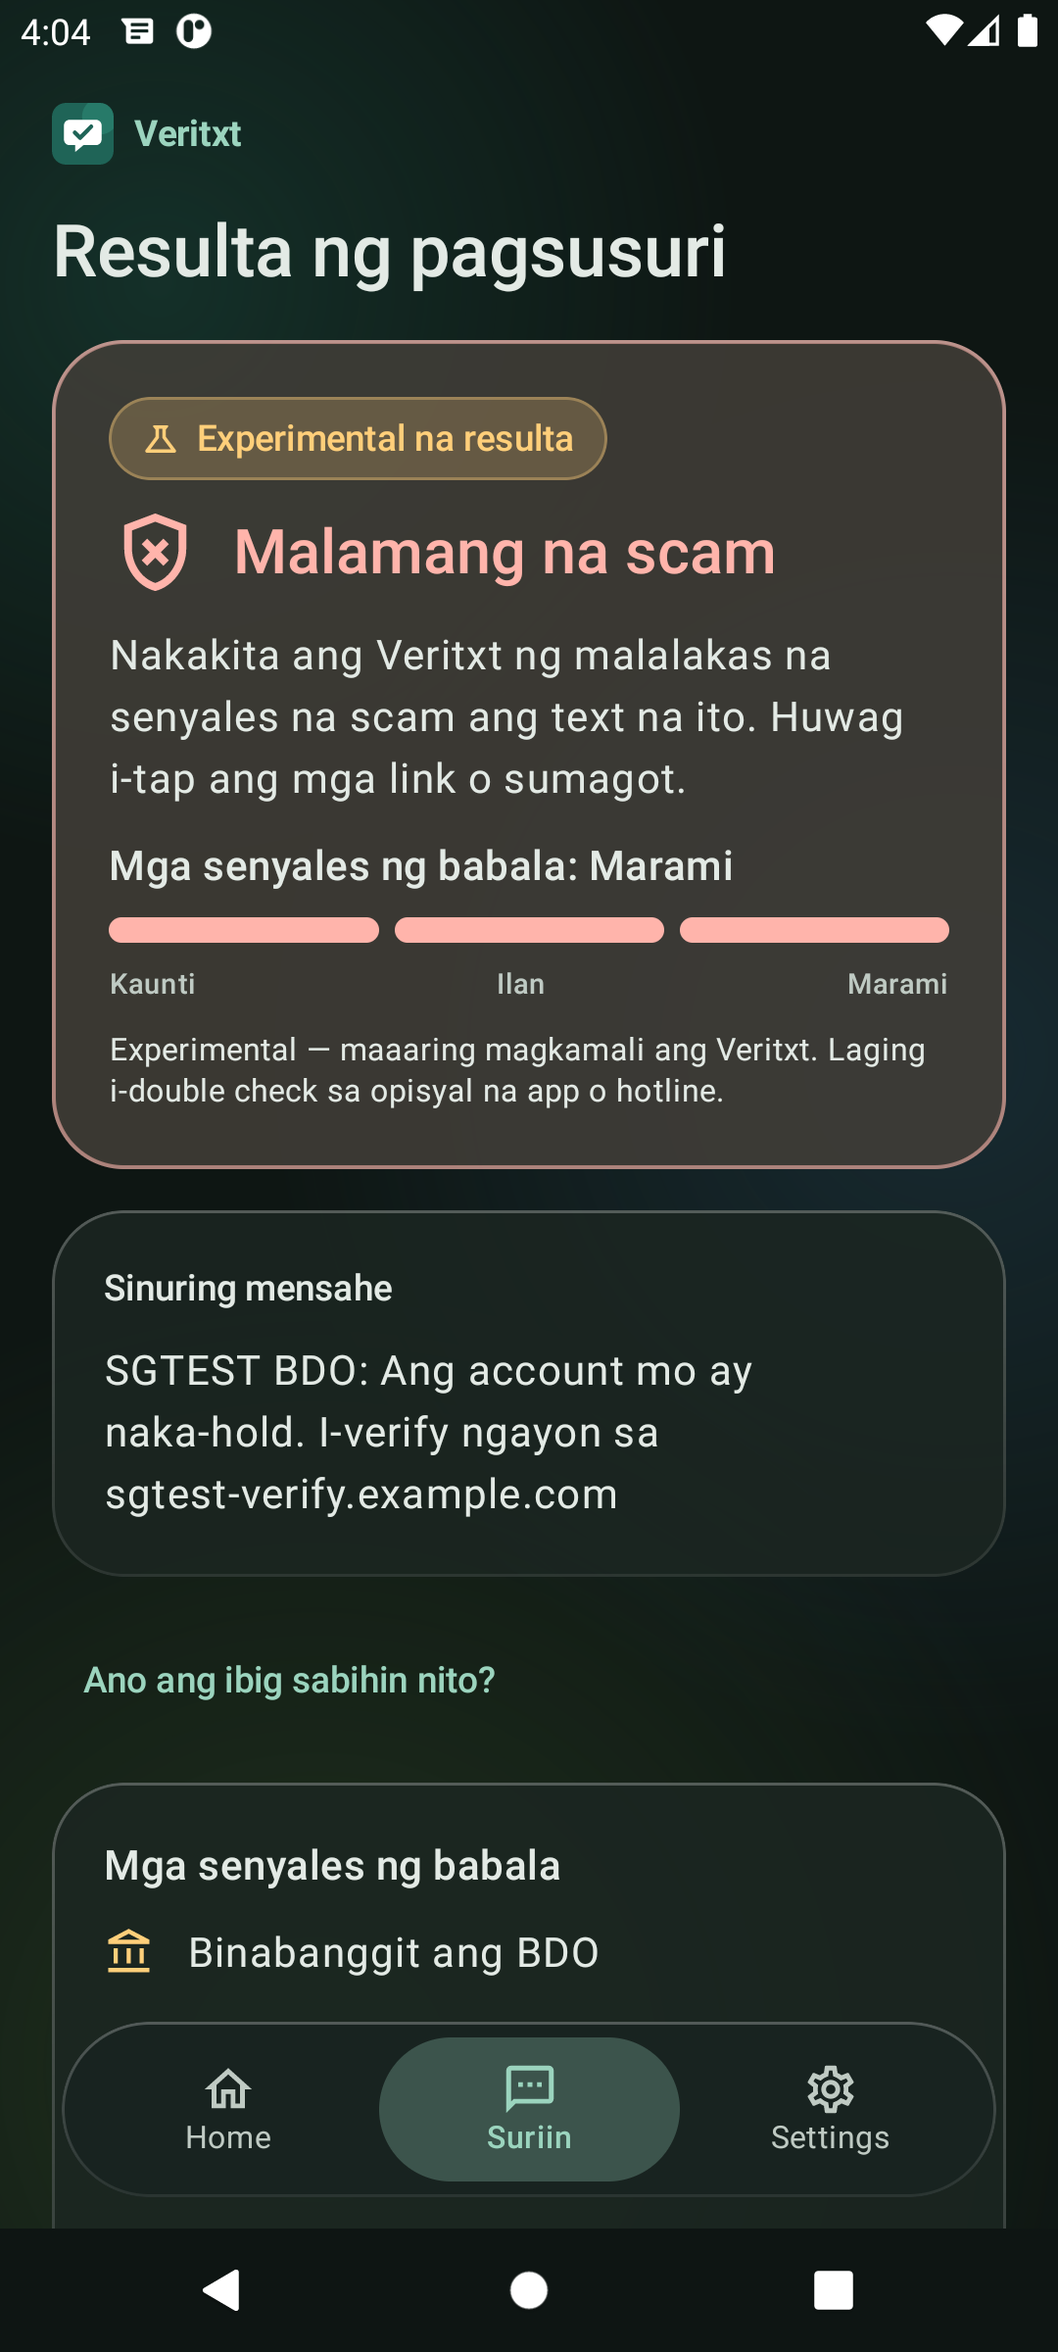
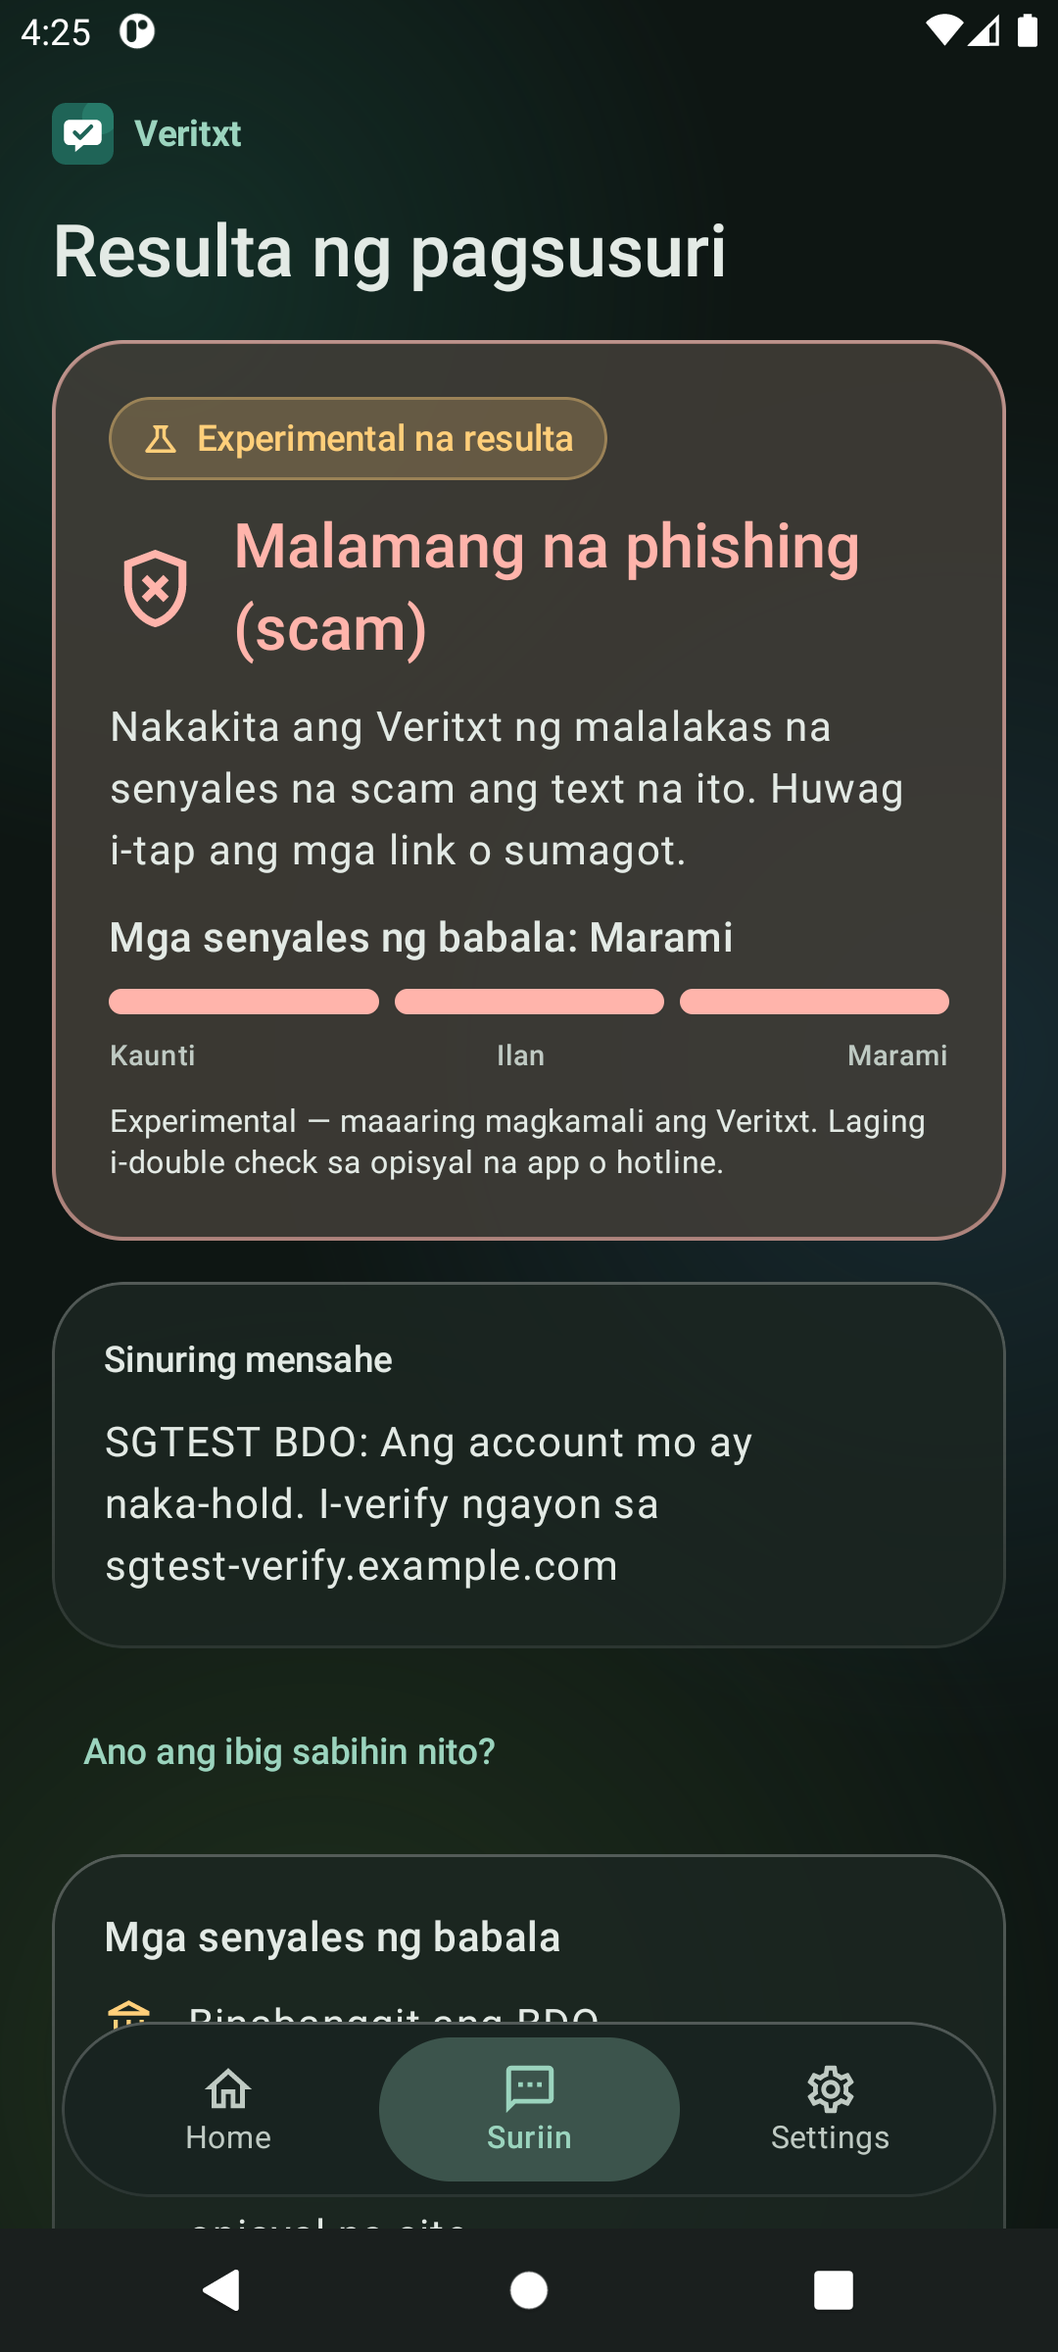
Say "phishing (scam)" consistently and add a Light/Dark theme choice
Wording: "Likely phishing (scam)", "No phishing (scam) detected", and
"Possible phishing (scam) text" in English and Filipino, so the thesis term
and the everyday word appear together and both languages match.

Theme: Settings -> Theme: System default / Light / Dark, applied instantly
in Compose (no activity restart), with status and navigation bar icons
matching. Stored with the display settings and cleared by "Clear local data".

Tests updated for the wording; new ThemeSettingTest. 52/52 instrumented
tests pass on Android 11.

diff --git a/android/app/src/main/java/ph/smishguard/MainActivity.kt b/android/app/src/main/java/ph/smishguard/MainActivity.kt
@@ -14,6 +14,7 @@ import android.view.WindowManager
 import androidx.activity.compose.BackHandler
 import androidx.activity.compose.rememberLauncherForActivityResult
 import androidx.activity.compose.setContent
+import androidx.activity.SystemBarStyle
 import androidx.activity.enableEdgeToEdge
 import androidx.activity.result.contract.ActivityResultContracts
 import androidx.activity.viewModels
@@ -79,6 +80,7 @@ import androidx.lifecycle.LifecycleEventObserver
 import androidx.lifecycle.compose.LocalLifecycleOwner
 import androidx.lifecycle.compose.collectAsStateWithLifecycle
 import kotlinx.coroutines.launch
+import ph.smishguard.data.AppTheme
 import ph.smishguard.data.Preferences
 import ph.smishguard.model.Detection
 import ph.smishguard.model.DecisionPolicy
@@ -143,8 +145,7 @@ enum class AppLanguage(val tag: String) { SYSTEM(""), ENGLISH("en"), FILIPINO("f
     }
 }
 
-@Composable private fun SmishGuardTheme(solid: Boolean, content: @Composable () -> Unit) {
-    val dark = isSystemInDarkTheme()
+@Composable private fun SmishGuardTheme(solid: Boolean, dark: Boolean, content: @Composable () -> Unit) {
     val colors = if (dark) darkColorScheme(primary = Color(0xFF9BD4BE), onPrimary = Color(0xFF00382D), secondary = Color(0xFFBACBBF),
             background = Color(0xFF0E1613), surface = Color(0xFF0E1613), onSurface = Color(0xFFE3EAE5),
             onSurfaceVariant = Color(0xFFBFCAC3), surfaceContainer = Color(0xFF202B26), secondaryContainer = Color(0xFF344B40))
@@ -182,7 +183,19 @@ private fun SmishGuardUi(app: SmishGuardApp, vm: CheckViewModel) {
     val keyboard = LocalSoftwareKeyboardController.current
     val focus = LocalFocusManager.current
     LaunchedEffect(state.screen, state.busy) { if (state.screen != Screen.CHECK || state.busy) { focus.clearFocus(); keyboard?.hide() } }
-    SmishGuardTheme(solid = preferences?.reduceTransparency == true) {
+    // Light / Dark / System is applied in Compose, so switching is instant and keeps the user on the same screen.
+    val systemDark = isSystemInDarkTheme()
+    val dark = when (preferences?.theme ?: AppTheme.SYSTEM) { AppTheme.SYSTEM -> systemDark; AppTheme.LIGHT -> false; AppTheme.DARK -> true }
+    LaunchedEffect(dark) {
+        // Status and navigation bar icons must match the chosen theme, not the phone's.
+        val transparent = android.graphics.Color.TRANSPARENT
+        val lightScrim = android.graphics.Color.argb(0xe6, 0xFF, 0xFF, 0xFF)
+        val darkScrim = android.graphics.Color.argb(0x80, 0x1b, 0x1b, 0x1b)
+        (activity as? androidx.activity.ComponentActivity)?.enableEdgeToEdge(
+            statusBarStyle = if (dark) SystemBarStyle.dark(transparent) else SystemBarStyle.light(transparent, transparent),
+            navigationBarStyle = if (dark) SystemBarStyle.dark(darkScrim) else SystemBarStyle.light(lightScrim, darkScrim))
+    }
+    SmishGuardTheme(solid = preferences?.reduceTransparency == true, dark = dark) {
         val haze = remember { HazeState() }
         val showNav = preferences?.privacyAccepted == true && preferences?.onboarded == true
         var navHeight by remember { mutableIntStateOf(0) }
@@ -281,6 +294,16 @@ private fun SmishGuardUi(app: SmishGuardApp, vm: CheckViewModel) {
             FilterChip(current == language, { current = language; AppLanguage.set(language) }, { Text(stringResource(label)) },
                 shape = RoundedCornerShape(50), modifier = Modifier.heightIn(min = 48.dp))
         }
+    }
+}
+
+@Composable private fun ThemePicker(current: AppTheme, choose: (AppTheme) -> Unit) {
+    FlowRow(horizontalArrangement = Arrangement.spacedBy(8.dp), verticalArrangement = Arrangement.spacedBy(8.dp)) {
+        listOf(AppTheme.SYSTEM to R.string.language_system, AppTheme.LIGHT to R.string.theme_light, AppTheme.DARK to R.string.theme_dark)
+            .forEach { (theme, label) ->
+                FilterChip(current == theme, { choose(theme) }, { Text(stringResource(label)) },
+                    shape = RoundedCornerShape(50), modifier = Modifier.heightIn(min = 48.dp))
+            }
     }
 }
 
@@ -700,6 +723,9 @@ private fun notificationSettings(context: Context) = Intent(Settings.ACTION_APP_
     GlassSurface(Modifier.fillMaxWidth(), padding = 12.dp) {
         SettingsRow(Icons.Outlined.Translate, stringResource(R.string.language_title))
         Box(Modifier.padding(start = 40.dp)) { LanguagePicker() }
+        HorizontalDivider(color = edge)
+        SettingsRow(Icons.Outlined.DarkMode, stringResource(R.string.theme_title))
+        Box(Modifier.padding(start = 40.dp)) { ThemePicker(preferences.theme) { scope.launch { app.preferences.theme(it) } } }
         HorizontalDivider(color = edge)
         val reduceCd = stringResource(R.string.reduce_title)
         SettingsRow(Icons.Outlined.Contrast, stringResource(R.string.reduce_title), stringResource(R.string.reduce_body)) {

diff --git a/android/app/src/main/java/ph/smishguard/data/PreferencesRepository.kt b/android/app/src/main/java/ph/smishguard/data/PreferencesRepository.kt
@@ -24,8 +24,10 @@ private val dropCity = object : androidx.datastore.core.DataMigration<androidx.d
     override suspend fun cleanUp() {}
 }
 private val Context.preferences by preferencesDataStore("preferences", produceMigrations = { listOf(dropCity) })
+/** Light, dark, or follow the phone's setting. */
+enum class AppTheme { SYSTEM, LIGHT, DARK }
 data class Preferences(val onboarded: Boolean = false, val scanning: Boolean = false, val reduceTransparency: Boolean = false,
-                       val privacyVersion: Int = 0, val privacyAcceptedOn: String? = null) {
+                       val privacyVersion: Int = 0, val privacyAcceptedOn: String? = null, val theme: AppTheme = AppTheme.SYSTEM) {
     val privacyAccepted get() = privacyVersion >= PRIVACY_NOTICE_VERSION
 }
 class PreferencesRepository(context: Context) {
@@ -33,15 +35,18 @@ class PreferencesRepository(context: Context) {
     private val consent = booleanPreferencesKey("onboarded")
     private val scanning = booleanPreferencesKey("incoming_sms_consent")
     private val solid = booleanPreferencesKey("reduce_transparency")
+    private val themeKey = stringPreferencesKey("theme")
     // Only the notice version and the date (no time, no identity) are kept as proof of consent.
     private val privacyVersion = intPreferencesKey("privacy_notice_version")
     private val privacyDate = stringPreferencesKey("privacy_notice_accepted_on")
     val flow = store.data.catch { if (it is IOException) emit(emptyPreferences()) else throw it }.map {
-        Preferences(it[consent] ?: false, it[scanning] ?: false, it[solid] ?: false, it[privacyVersion] ?: 0, it[privacyDate])
+        Preferences(it[consent] ?: false, it[scanning] ?: false, it[solid] ?: false, it[privacyVersion] ?: 0, it[privacyDate],
+            runCatching { AppTheme.valueOf(it[themeKey] ?: AppTheme.SYSTEM.name) }.getOrDefault(AppTheme.SYSTEM))
     }
     suspend fun onboard() { store.edit { it[consent] = true } }
     suspend fun scanning(enabled: Boolean) { store.edit { it[scanning] = enabled } }
     suspend fun reduceTransparency(enabled: Boolean) { store.edit { it[solid] = enabled } }
+    suspend fun theme(value: AppTheme) { store.edit { it[themeKey] = value.name } }
     suspend fun acceptPrivacy() { store.edit { it[privacyVersion] = PRIVACY_NOTICE_VERSION; it[privacyDate] = LocalDate.now().toString() } }
     suspend fun clear() { store.edit { it.clear() } }
 }

diff --git a/android/app/src/androidTest/java/ph/smishguard/ThemeSettingTest.kt b/android/app/src/androidTest/java/ph/smishguard/ThemeSettingTest.kt
@@ -1,0 +1,34 @@
+package ph.smishguard
+
+import androidx.compose.ui.test.*
+import androidx.compose.ui.test.junit4.createAndroidComposeRule
+import kotlinx.coroutines.flow.first
+import kotlinx.coroutines.runBlocking
+import org.junit.After
+import org.junit.Assert.assertEquals
+import org.junit.Rule
+import org.junit.Test
+import ph.smishguard.data.AppTheme
+
+/** Light / Dark / System can be chosen in Settings, apply instantly, and keep the user on Settings. */
+class ThemeSettingTest {
+    @get:Rule val compose = createAndroidComposeRule<MainActivity>()
+    private val app get() = compose.activity.application as SmishGuardApp
+
+    @After fun reset() = runBlocking { app.preferences.theme(AppTheme.SYSTEM) }
+
+    @Test fun themeChoiceIsSavedAndStaysOnSettings() {
+        runBlocking { app.preferences.acceptPrivacy(); app.preferences.onboard(); app.preferences.theme(AppTheme.SYSTEM) }
+        compose.waitUntil(10000) { compose.onAllNodesWithText("Settings").fetchSemanticsNodes().isNotEmpty() }
+        compose.onNodeWithText("Settings").performClick()
+        for ((label, expected) in listOf("Dark" to AppTheme.DARK, "Light" to AppTheme.LIGHT, "System default" to AppTheme.SYSTEM)) {
+            // "System default" also labels a language chip; the Theme row comes after Language, so take the last match.
+            val chip = { compose.onAllNodesWithText(label).let { it[it.fetchSemanticsNodes().size - 1] } }
+            // Press the chip itself; a coordinate tap after scrolling can land on the floating nav bar.
+            chip().performScrollTo().performSemanticsAction(androidx.compose.ui.semantics.SemanticsActions.OnClick) { it() }
+            compose.waitUntil(5000) { runBlocking { app.preferences.flow.first().theme } == expected }
+            compose.onNodeWithText("Privacy & settings").assertExists()
+            chip().assertIsSelected()
+        }
+    }
+}

diff --git a/android/app/src/androidTest/java/ph/smishguard/CompactResultTest.kt b/android/app/src/androidTest/java/ph/smishguard/CompactResultTest.kt
@@ -57,7 +57,7 @@ class CompactResultTest {
             compose.onNodeWithText("What does this mean?").performScrollTo().assertHeightIsAtLeast(48.dp).performClick()
             compose.onNodeWithText("About this result").assertExists()
             compose.onNodeWithText(if (suspicious) "Model score: 0.92" else "Model score: 0.12", substring = true).assertExists()
-            compose.onNodeWithText("Texts scoring above 0.50 are shown as Likely phishing.").assertExists()
+            compose.onNodeWithText("Texts scoring above 0.50 are shown as Likely phishing (scam).").assertExists()
             compose.onNodeWithText(policyNote).performScrollTo().assertExists()
             compose.onNodeWithText("Close").performClick()
         }
@@ -96,7 +96,7 @@ class CompactResultTest {
             compose.onRoot(useUnmergedTree = true).printToString())
         compose.onNode(SemanticsMatcher.expectValue(SemanticsProperties.LiveRegion, LiveRegionMode.Polite)).assertExists()
         compose.onNodeWithText("What does this mean?").performScrollTo().performClick()
-        compose.onNodeWithText("Texts scoring 0.89 or more are shown as Likely phishing.").performScrollTo().assertExists()
+        compose.onNodeWithText("Texts scoring 0.89 or more are shown as Likely phishing (scam).").performScrollTo().assertExists()
         compose.onNodeWithText(window.explanation()).performScrollTo().assertExists()
         compose.onNodeWithText("Close").performClick()
         compose.onNodeWithText("Check another message").performScrollTo().performClick()

diff --git a/android/app/src/androidTest/java/ph/smishguard/PrivacyAndCheckPromptTest.kt b/android/app/src/androidTest/java/ph/smishguard/PrivacyAndCheckPromptTest.kt
@@ -67,12 +67,12 @@ class PrivacyAndCheckPromptTest {
         val id = ph.smishguard.sms.WarningNotifications.warn(app, marker)!!
         val warning = posted(id)
         assertEquals(ph.smishguard.sms.WarningNotifications.CHANNEL, warning.channelId)
-        assertEquals("Possible scam text", warning.extras.getCharSequence(Notification.EXTRA_TITLE)?.toString())
+        assertEquals("Possible phishing (scam) text", warning.extras.getCharSequence(Notification.EXTRA_TITLE)?.toString())
         val shown = listOf(Notification.EXTRA_TITLE, Notification.EXTRA_TEXT).joinToString(" ") { warning.extras.getCharSequence(it)?.toString().orEmpty() }
         assertFalse("Warning must not contain the message", shown.contains("SGTEST") || shown.contains("example.com"))
         assertEquals(Notification.VISIBILITY_SECRET, warning.visibility)
         warning.contentIntent.send()
-        compose.waitUntil(10000) { compose.onAllNodesWithText("Likely phishing").fetchSemanticsNodes().isNotEmpty() }
+        compose.waitUntil(10000) { compose.onAllNodesWithText("Likely phishing (scam)").fetchSemanticsNodes().isNotEmpty() }
         compose.onNodeWithText("Experimental result").assertExists()
         compose.onNodeWithText(marker).assertExists()
     }

diff --git a/android/app/src/androidTest/java/ph/smishguard/IncomingPromptModemTest.kt b/android/app/src/androidTest/java/ph/smishguard/IncomingPromptModemTest.kt
@@ -47,10 +47,10 @@ class IncomingPromptModemTest {
                 if (posted == null) Thread.sleep(500)
             }
             assertNotNull("No automatic warning within 60 s of the SMS", posted)
-            assertEquals("Possible scam text", posted!!.extras.getCharSequence(Notification.EXTRA_TITLE)?.toString())
+            assertEquals("Possible phishing (scam) text", posted!!.extras.getCharSequence(Notification.EXTRA_TITLE)?.toString())
             InstrumentationRegistry.getArguments().getString("pauseMs")?.toLongOrNull()?.let(Thread::sleep)
             posted.contentIntent.send()
-            compose.waitUntil(10000) { compose.onAllNodesWithText("Likely phishing").fetchSemanticsNodes().isNotEmpty() }
+            compose.waitUntil(10000) { compose.onAllNodesWithText("Likely phishing (scam)").fetchSemanticsNodes().isNotEmpty() }
             assertTrue(manager.activeNotifications.none { it.notification.channelId == CheckPrompt.CHANNEL })
             if (InstrumentationRegistry.getArguments().getString("shot") == "true") captureResult(app)
         } finally {

diff --git a/android/app/src/androidTest/java/ph/smishguard/RedesignReviewTest.kt b/android/app/src/androidTest/java/ph/smishguard/RedesignReviewTest.kt
@@ -55,6 +55,13 @@ class RedesignReviewTest {
             capture("07-result-caution")
             compose.onNodeWithText("Settings").performClick()
             capture("08-settings")
+            // Theme choice: pick Dark while the phone may be in light mode, then go back to System default.
+            val themeChip = { label: String -> compose.onAllNodesWithText(label).let { it[it.fetchSemanticsNodes().size - 1] } }
+            themeChip("Dark").performScrollTo().performSemanticsAction(androidx.compose.ui.semantics.SemanticsActions.OnClick) { it() }
+            Thread.sleep(800)
+            capture("08b-theme-dark")
+            themeChip("System default").performScrollTo().performSemanticsAction(androidx.compose.ui.semantics.SemanticsActions.OnClick) { it() }
+            compose.onNodeWithText("Privacy & settings").performScrollTo()
             compose.onNodeWithText("Why didn't I get a notification?").performScrollTo().performClick()
             capture("09-help")
             // Filipino

diff --git a/android/app/src/androidTest/java/ph/smishguard/NotificationBehaviorTest.kt b/android/app/src/androidTest/java/ph/smishguard/NotificationBehaviorTest.kt
@@ -25,7 +25,7 @@ class NotificationBehaviorTest {
         awaitNotificationState { manager.activeNotifications.any { it.id == id } }
         val notification = manager.activeNotifications.first { it.id == id }.notification
         assertEquals(Notification.VISIBILITY_SECRET, notification.visibility)
-        assertEquals("Possible scam text", notification.extras.getCharSequence(Notification.EXTRA_TITLE)?.toString())
+        assertEquals("Possible phishing (scam) text", notification.extras.getCharSequence(Notification.EXTRA_TITLE)?.toString())
         assertFalse(notification.extras.getCharSequence(Notification.EXTRA_TEXT).toString().contains("SGTEST"))
         assertNotNull(notification.contentIntent)
         manager.cancelAll()

diff --git a/android/app/src/test/java/ph/smishguard/AssessabilityTest.kt b/android/app/src/test/java/ph/smishguard/AssessabilityTest.kt
@@ -32,8 +32,8 @@ class AssessabilityTest {
             assertEquals("Model score: 33.6%", ResultCopy.score(.336317))
             assertEquals("Model score: 0.0%", ResultCopy.score(0.0))
             assertEquals("Model score: 100.0%", ResultCopy.score(1.0))
-            assertEquals("No phishing detected", ResultCopy.heading(Detection.Success(false, .5)))
-            assertEquals("Likely phishing", ResultCopy.heading(Detection.Success(true, .50001)))
+            assertEquals("No phishing (scam) detected", ResultCopy.heading(Detection.Success(false, .5)))
+            assertEquals("Likely phishing (scam)", ResultCopy.heading(Detection.Success(true, .50001)))
         } finally { Locale.setDefault(prior) }
     }
 }

diff --git a/android/app/src/main/java/ph/smishguard/sms/CheckPrompt.kt b/android/app/src/main/java/ph/smishguard/sms/CheckPrompt.kt
@@ -43,7 +43,7 @@ object PendingChecks {
 /**
  * Notifications about a new SMS. None of them ever show the message, the sender, or a link.
  * [Kind.PROMPT]: neutral "New text received — check it?" (no model can warn automatically).
- * [Kind.WARNING]: "Possible scam text" after the model flagged it. [Kind.TEST]: sample from Settings.
+ * [Kind.WARNING]: "Possible phishing (scam) text" after the model flagged it. [Kind.TEST]: sample from Settings.
  */
 object CheckPrompt {
     enum class Kind { PROMPT, WARNING, TEST }

diff --git a/android/app/src/main/java/ph/smishguard/sms/IncomingSmsReceiver.kt b/android/app/src/main/java/ph/smishguard/sms/IncomingSmsReceiver.kt
@@ -90,6 +90,6 @@ object WarningNotifications {
                 lockscreenVisibility = android.app.Notification.VISIBILITY_SECRET
             })
     }
-    /** Posts "Possible scam text" (no message content); "See why" opens Veritxt and shows the result. */
+    /** Posts "Possible phishing (scam) text" (no message content); "See why" opens Veritxt and shows the result. */
     fun warn(context: Context, text: String): Int? = CheckPrompt.show(context, text, CheckPrompt.Kind.WARNING)
 }

diff --git a/android/app/src/main/java/ph/smishguard/model/ResultCopy.kt b/android/app/src/main/java/ph/smishguard/model/ResultCopy.kt
@@ -4,7 +4,7 @@ import java.util.Locale
 
 object ResultCopy {
     fun heading(result: Detection.Success): String =
-        if (result.suspicious) "Likely phishing" else "No phishing detected"
+        if (result.suspicious) "Likely phishing (scam)" else "No phishing (scam) detected"
     fun score(value: Double): String =
         String.format(Locale.ROOT, "Model score: %.1f%%", value * 100)
     const val LONG_MESSAGE = "Long message: only the beginning was assessed."
